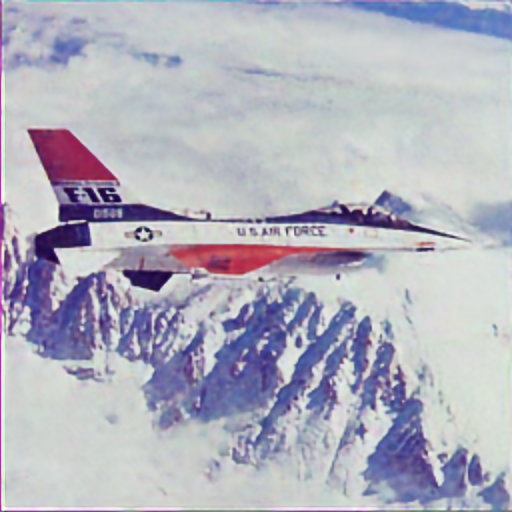
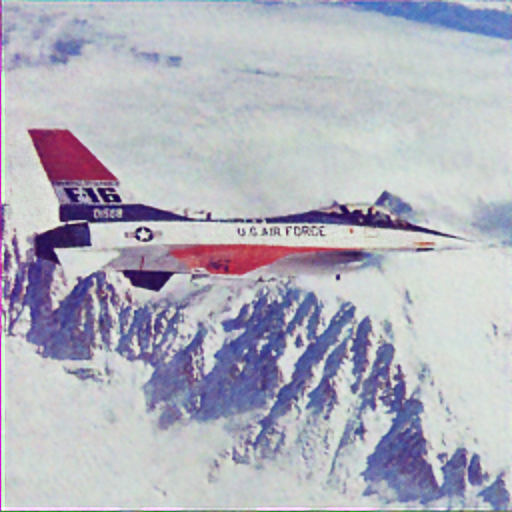
aaa

diff --git a/model.py b/model.py
@@ -58,49 +58,67 @@ class Model(nn.Module):
 
     def __init__(self, w, h, input_channel=3, u_mode='bilinear'):
         super(Model, self).__init__()
-        self.w1,self.h1 = int(w/64), int(h/64)
-        self.w2,self.h2 = int(w/32), int(h/32)
-        self.w3,self.h3 = int(w/16), int(h/16)
-        self.w4,self.h4 = int(w/8), int(h/8)
-        # print(w,self.w)
+
         self.d1 = D(input_channel, 128, 3)
         self.d2 = D(128, 128, 3)
         self.d3 = D(128, 128, 3)
         self.d4 = D(128, 128, 3)
         self.d5 = D(128, 128, 3)
-        # self.d6 = D(128, 256, 3)
 
-        self.u1 = U(128, 128, 3, mode=u_mode)
+        self.u1 = U(128 + 4, 128, 3, mode=u_mode)
         self.u2 = U(128 + 4, 128, 3, mode=u_mode)
         self.u3 = U(128 + 4, 128, 3, mode=u_mode)
         self.u4 = U(128 + 4, 128, 3, mode=u_mode)
         self.u5 = U(128 + 4, 128, 3, mode=u_mode)
-        # self.u6 = U(128 + 4, 256, 3, mode=mode)
 
+        self.s1 = S(128, 4, 1)
         self.s2 = S(128, 4, 1)
         self.s3 = S(128, 4, 1)
         self.s4 = S(128, 4, 1)
         self.s5 = S(128, 4, 1)
-        # self.s6 = S(128, 4, 1)
 
         self.conv_out = nn.Conv2d(128, 3, 1, stride=1, padding=0, bias=True)
 
     def forward(self, x):
         h = self.d1(x)
-        skip1 = self.s2(h)
+        skip1 = self.s1(h)
         h = self.d2(h)
-        skip2 = self.s3(h)
+        skip2 = self.s2(h)
         h = self.d3(h)
-        skip3 = self.s4(h)
+        skip3 = self.s3(h)
         h = self.d4(h)
-        skip4 = self.s5(h)
+        skip4 = self.s4(h)
         h = self.d5(h)
-        # print(skip4[:,:,self.w1:-self.w1,self.h1:-self.h1].shape,h.shape,self.w1)
-        h = self.u5(torch.cat((skip4[:,:,self.w1:-self.w1,self.h1:-self.h1],h),dim=1))
-        h = self.u4(torch.cat((skip3[:,:,self.w2:-self.w2,self.h2:-self.h2],h),dim=1))
-        h = self.u3(torch.cat((skip2[:,:,self.w3:-self.w3,self.h3:-self.h3],h),dim=1))
-        # print(skip2[:,:,self.w4:-self.w4,self.h4:-self.h4].shape,h.shape,self.h4)
-        h = self.u2(torch.cat((skip1[:,:,self.w4:-self.w4,self.h4:-self.h4],h),dim=1))
-        h = self.u1(h)
+        skip5 = self.s5(h)
+
+        if skip5.shape[2] == h.shape[2]:
+            h = self.u5(torch.cat((skip5, h), dim=1))
+        else:
+            self.crop_w, self.crop_h = h.shape[2] // 2, h.shape[3] // 2
+            h = self.u5(torch.cat((skip5[:,:,self.crop_w:-self.crop_w,self.crop_h:-self.crop_h],h),dim=1))
+
+        if skip4.shape[2] == h.shape[2]:
+            h = self.u4(torch.cat((skip4, h), dim=1))
+        else:
+            self.crop_w, self.crop_h = h.shape[2] // 2, h.shape[3] // 2
+            h = self.u4(torch.cat((skip4[:,:,self.crop_w:-self.crop_w,self.crop_h:-self.crop_h],h),dim=1))
+
+        if skip3.shape[2] == h.shape[2]:
+            h = self.u3(torch.cat((skip3, h), dim=1))
+        else:
+            self.crop_w, self.crop_h = h.shape[2] // 2, h.shape[3] // 2
+            h = self.u3(torch.cat((skip3[:,:,self.crop_w:-self.crop_w,self.crop_h:-self.crop_h],h),dim=1))
+
+        if skip2.shape[2] == h.shape[2]:
+            h = self.u2(torch.cat((skip2, h), dim=1))
+        else:
+            self.crop_w, self.crop_h = h.shape[2] // 2, h.shape[3] // 2
+            h = self.u2(torch.cat((skip2[:,:,self.crop_w:-self.crop_w,self.crop_h:-self.crop_h],h),dim=1))
+
+        if skip1.shape[2] == h.shape[2]:
+            h = self.u1(torch.cat((skip1, h), dim=1))
+        else:
+            self.crop_w, self.crop_h = h.shape[2] // 2, h.shape[3] // 2
+            h = self.u1(torch.cat((skip1[:,:,self.crop_w:-self.crop_w,self.crop_h:-self.crop_h],h),dim=1))
 
         return torch.sigmoid(self.conv_out(h))

diff --git a/main.py b/main.py
@@ -104,4 +104,4 @@ if __name__ == "__main__":
     plt.savefig(f'Imgs/{args.name}.png')
     
     # python main.py --task=denoise --name=f16 --epoch=3000
-    # python main.py --task==inpaint --name=kate --epoch=6000
+    # python main.py --task=inpaint --name=kate --epoch=6000
